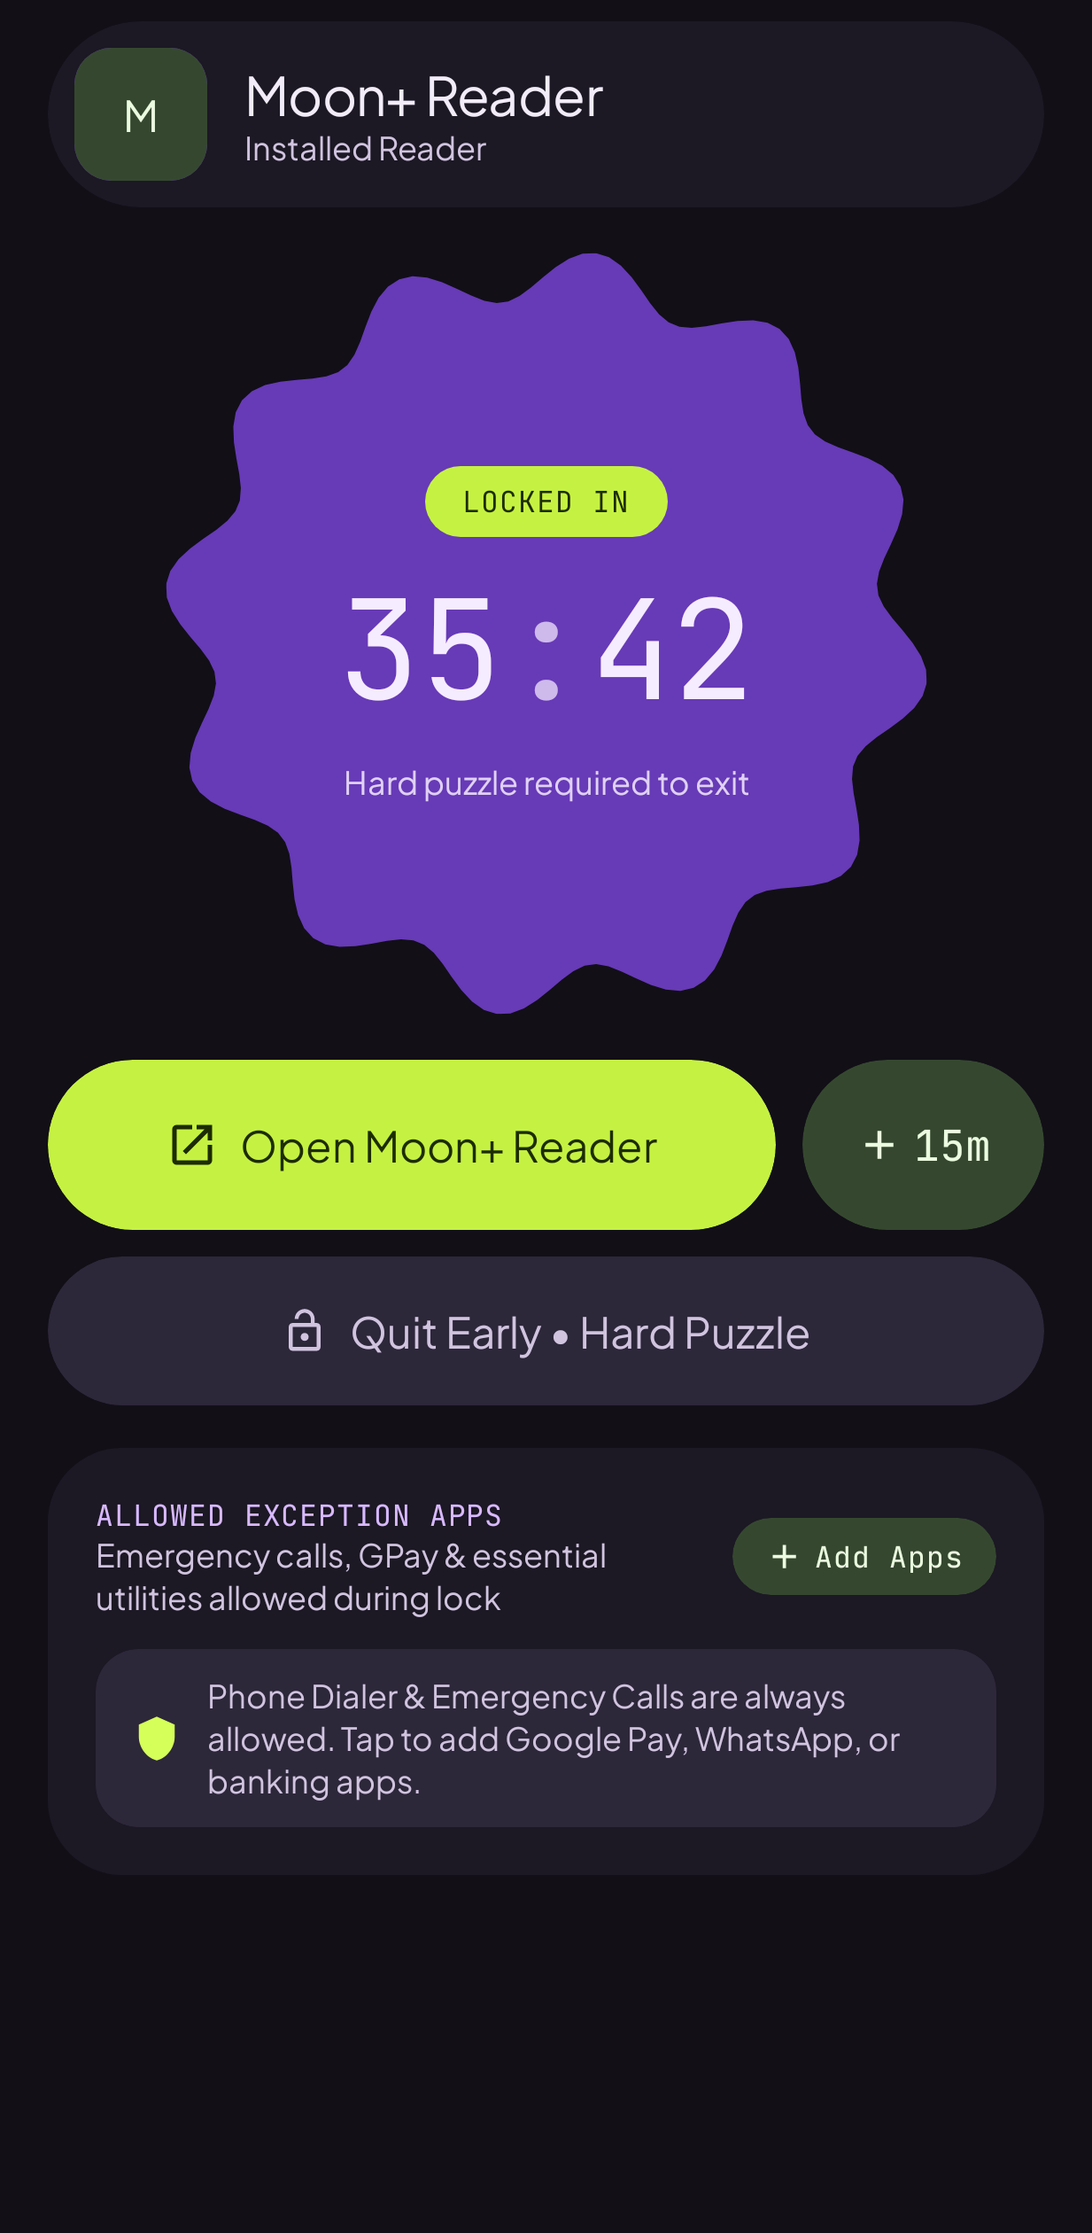
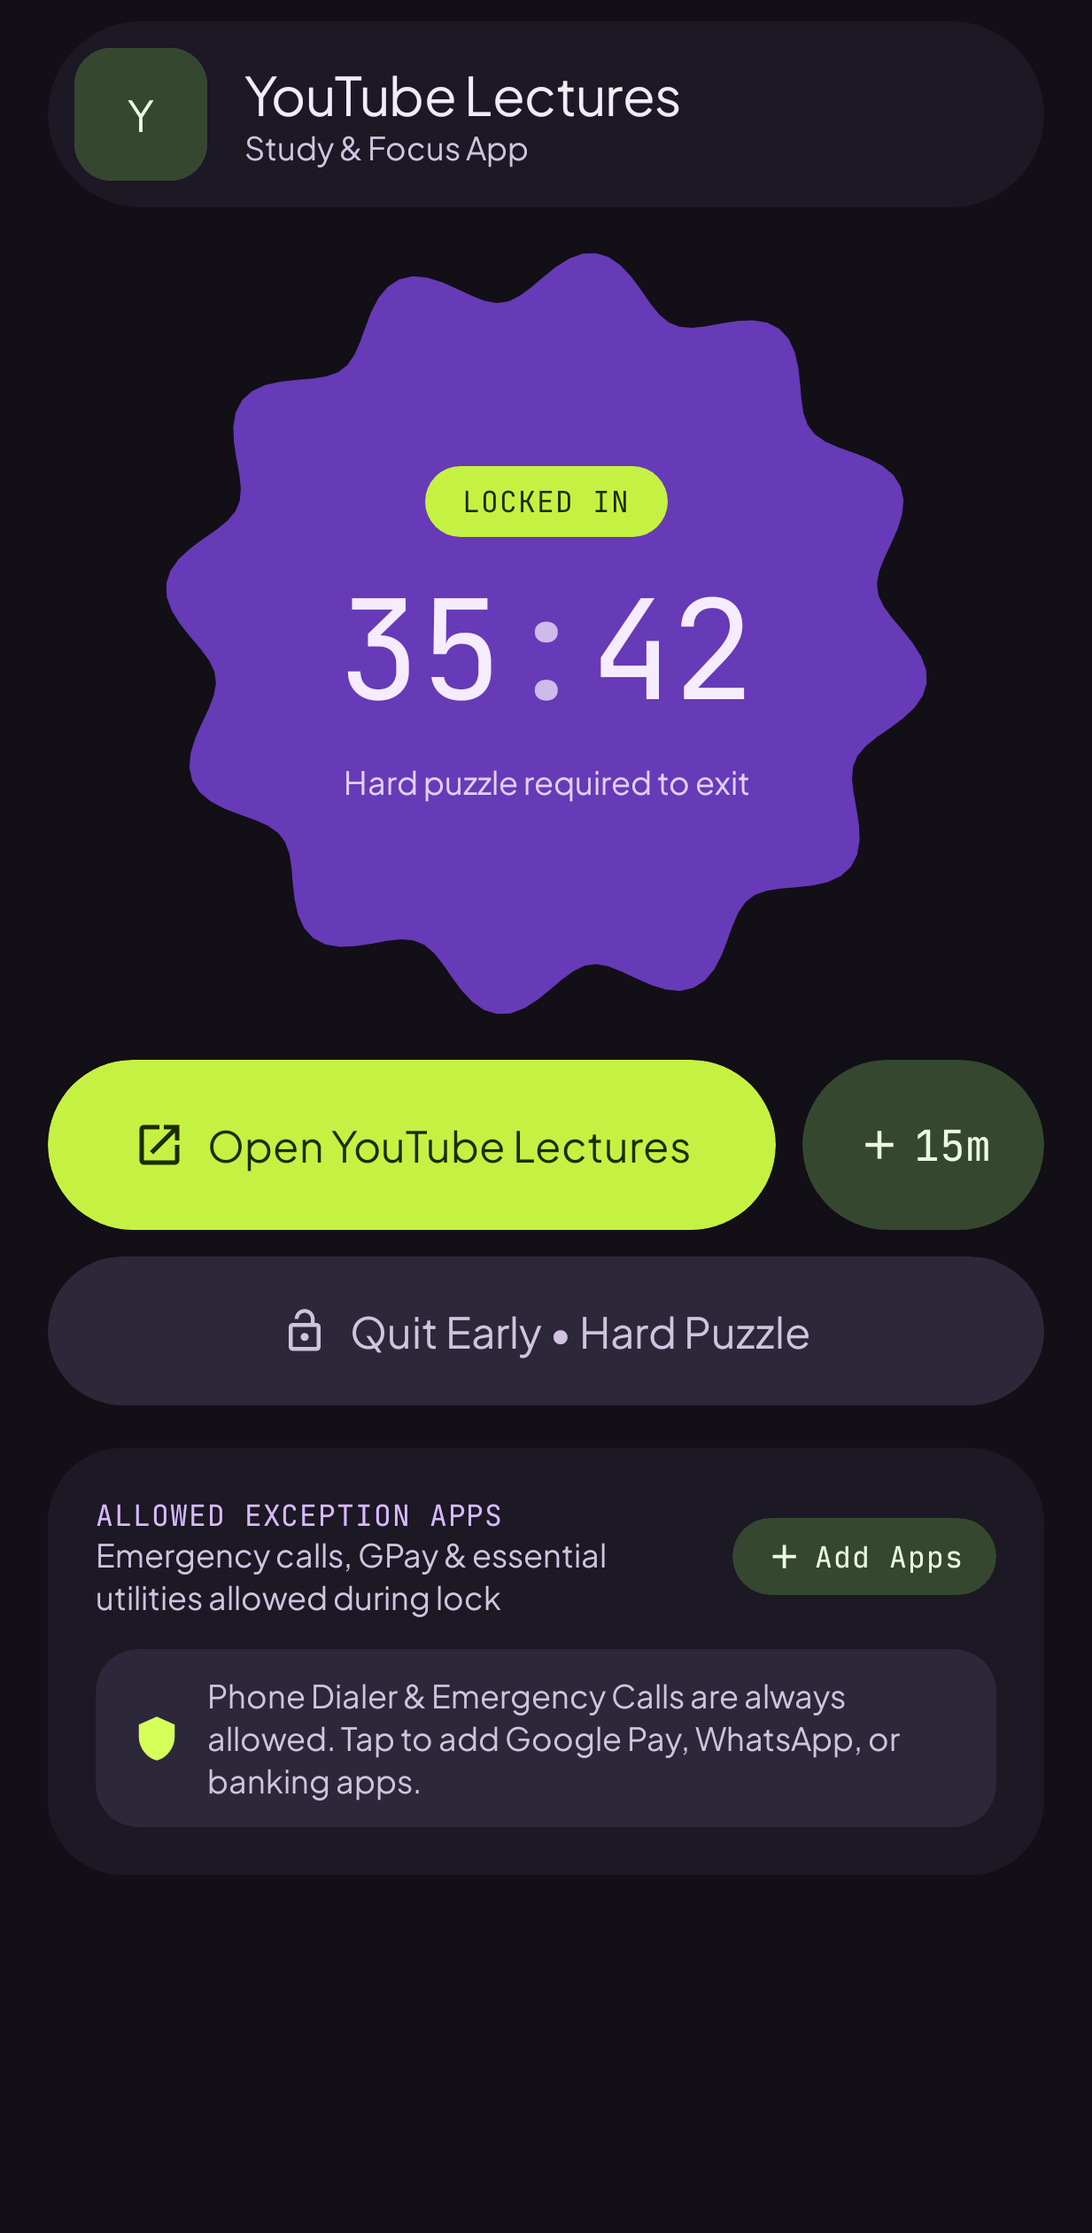
refactor: generalize focus candidate apps and resolve accessibility deprecations

Changed region(s): [[0.2157, 0.031, 0.6164, 0.0929], [0.1233, 0.4952, 0.6164, 0.5262], [0.1233, 0.031, 0.1541, 0.0619]]

diff --git a/app/src/test/java/com/example/ExampleRobolectricTest.kt b/app/src/test/java/com/example/ExampleRobolectricTest.kt
@@ -81,7 +81,7 @@ class ExampleRobolectricTest {
             category = "Social",
             dailyLimitMinutes = 60,
             usedMinutesToday = 45,
-            blockDuringReading = true
+            blockDuringFocus = true
         )
         assertFalse(ruleUnderBudget.isCurrentlyBlocked(isFocusSessionActive = false))
         assertTrue(ruleUnderBudget.isCurrentlyBlocked(isFocusSessionActive = true))
@@ -98,7 +98,7 @@ class ExampleRobolectricTest {
             category = "Video",
             dailyLimitMinutes = 30,
             usedMinutesToday = 35,
-            blockDuringReading = true
+            blockDuringFocus = true
         )
         ChapterLockEnforcer.syncRules(listOf(youtubeRule))
         ChapterLockEnforcer.updateFocusLockState(
@@ -137,22 +137,22 @@ class ExampleRobolectricTest {
     }
 
     @Test
-    fun `focus lock mode intercepts unauthorized apps while keeping reader open`() {
-        val readerPkg = "com.flyersoft.moonreader"
+    fun `focus lock mode intercepts unauthorized apps while keeping pinned focus app open`() {
+        val pinnedAppPkg = "com.google.android.youtube"
         val now = System.currentTimeMillis()
         ChapterLockEnforcer.updateFocusLockState(
             active = true,
-            pinnedPackage = readerPkg,
-            pinnedName = "Moon+ Reader",
+            pinnedPackage = pinnedAppPkg,
+            pinnedName = "YouTube Lectures",
             endTimeMs = now + 1_800_000L
         )
 
-        val readerDecision = ChapterLockEnforcer.evaluatePackage(readerPkg, "com.example")
-        assertNull("Pinned reader must be permitted during focus lock", readerDecision)
+        val pinnedDecision = ChapterLockEnforcer.evaluatePackage(pinnedAppPkg, "com.example")
+        assertNull("Pinned focus app must be permitted during focus lock", pinnedDecision)
 
-        val youtubeDecision = ChapterLockEnforcer.evaluatePackage("com.google.android.youtube", "com.example")
-        assertNotNull(youtubeDecision)
-        assertEquals(InterceptReason.FOCUS_LOCK_BREACH, youtubeDecision?.reason)
+        val unauthorizedDecision = ChapterLockEnforcer.evaluatePackage("com.instagram.android", "com.example")
+        assertNotNull(unauthorizedDecision)
+        assertEquals(InterceptReason.FOCUS_LOCK_BREACH, unauthorizedDecision?.reason)
 
         // System launcher must trigger FOCUS_LOCK_LAUNCHER_BREACH when Focus Lock is active to confine navigation
         val launcherDecision = ChapterLockEnforcer.evaluatePackage("com.miui.home", "com.example")
@@ -245,8 +245,8 @@ class ExampleRobolectricTest {
         val context = ApplicationProvider.getApplicationContext<Context>()
         ChapterLockEnforcer.updateFocusLockState(
             active = true,
-            pinnedPackage = "com.flyersoft.moonreader",
-            pinnedName = "Moon+ Reader",
+            pinnedPackage = "com.google.android.youtube",
+            pinnedName = "YouTube Lectures",
             endTimeMs = System.currentTimeMillis() + 30 * 60_000L
         )
         val focusNotif = com.example.service.LockNotificationManager.buildForegroundServiceNotification(context)
@@ -271,8 +271,8 @@ class ExampleRobolectricTest {
                 AppVaultScreen(
                     appRules = emptyList(),
                     isFocusSessionActive = true,
-                    activeFocusAppName = "Moon+ Reader",
-                    activeFocusPackageName = "com.flyersoft.moonreader",
+                    activeFocusAppName = "YouTube Lectures",
+                    activeFocusPackageName = "com.google.android.youtube",
                     activeFocusCountdown = "42:15",
                     hasUsageStatsPermission = true,
                     hasAccessibilityPermission = true,
@@ -349,18 +349,18 @@ class ExampleRobolectricTest {
     @Config(qualifiers = "w411dp-h891dp-xxhdpi")
     fun `capture real screenshot of FocusLock screen`() {
         composeTestRule.mainClock.autoAdvance = false
-        val readerApp = PinnedFocusAppEntity(
-            packageName = "com.flyersoft.moonreader",
-            appName = "Moon+ Reader",
-            subtitle = "Installed Reader",
+        val pinnedFocusApp = PinnedFocusAppEntity(
+            packageName = "com.google.android.youtube",
+            appName = "YouTube Lectures",
+            subtitle = "Study & Focus App",
             isSelected = true,
             totalFocusedMinutes = 185,
             isInstalled = true
         )
         val activeSession = ActiveFocusSessionState(
             isActive = true,
-            pinnedAppName = "Moon+ Reader",
-            pinnedPackageName = "com.flyersoft.moonreader",
+            pinnedAppName = "YouTube Lectures",
+            pinnedPackageName = "com.google.android.youtube",
             selectedDurationMinutes = 45,
             totalSeconds = 2700,
             remainingSeconds = 2142
@@ -370,7 +370,7 @@ class ExampleRobolectricTest {
             MyApplicationTheme(darkTheme = true, dynamicColor = false) {
                 Box(modifier = Modifier.size(width = 411.dp, height = 840.dp)) {
                     ReadAndLockScreen(
-                        selectedFocusApp = readerApp,
+                        selectedFocusApp = pinnedFocusApp,
                         activeSession = activeSession,
                         isTablet = false,
                         onSelectDuration = {},
@@ -392,8 +392,8 @@ class ExampleRobolectricTest {
         composeTestRule.mainClock.autoAdvance = false
         val challenge = FrictionChallengeState(
             reason = FrictionReason.QUIT_FOCUS_LOCK_EARLY,
-            targetAppName = "Moon+ Reader",
-            targetPackageName = "com.flyersoft.moonreader",
+            targetAppName = "YouTube Lectures",
+            targetPackageName = "com.google.android.youtube",
             mode = ChallengeMode.MEMORY_GRID,
             patternSequence = listOf(2, 5, 10, 13, 7),
             userClickedSequence = listOf(2, 5),
@@ -428,18 +428,18 @@ class ExampleRobolectricTest {
     @Config(qualifiers = "w960dp-h640dp-xhdpi")
     fun `capture real screenshot of Tablet 3 to 2 layout`() {
         composeTestRule.mainClock.autoAdvance = false
-        val readerApp = PinnedFocusAppEntity(
-            packageName = "com.flyersoft.moonreader",
-            appName = "Moon+ Reader",
-            subtitle = "Installed Reader",
+        val pinnedFocusApp = PinnedFocusAppEntity(
+            packageName = "com.google.android.youtube",
+            appName = "YouTube Lectures",
+            subtitle = "Study & Focus App",
             isSelected = true,
             totalFocusedMinutes = 240,
             isInstalled = true
         )
         val session = ActiveFocusSessionState(
             isActive = false,
-            pinnedAppName = "Moon+ Reader",
-            pinnedPackageName = "com.flyersoft.moonreader",
+            pinnedAppName = "YouTube Lectures",
+            pinnedPackageName = "com.google.android.youtube",
             selectedDurationMinutes = 60,
             totalSeconds = 3600,
             remainingSeconds = 3600
@@ -466,7 +466,7 @@ class ExampleRobolectricTest {
                                 onToggleWallpaperTheme = {}
                             )
                             ReadAndLockScreen(
-                                selectedFocusApp = readerApp,
+                                selectedFocusApp = pinnedFocusApp,
                                 activeSession = session,
                                 focusHistoryCount = 6,
                                 isTablet = true,
@@ -576,18 +576,18 @@ class ExampleRobolectricTest {
     @Config(qualifiers = "w768dp-h1024dp-xhdpi")
     fun `portrait tablet uses centered single-column layout and slot-machine clock displays real-time seconds`() {
         composeTestRule.mainClock.autoAdvance = false
-        val readerApp = PinnedFocusAppEntity(
-            packageName = "com.flyersoft.moonreader",
-            appName = "Moon+ Reader",
-            subtitle = "Installed Reader",
+        val pinnedFocusApp = PinnedFocusAppEntity(
+            packageName = "com.google.android.youtube",
+            appName = "YouTube Lectures",
+            subtitle = "Study & Focus App",
             isSelected = true,
             totalFocusedMinutes = 185,
             isInstalled = true
         )
         val idleSession = ActiveFocusSessionState(
             isActive = false,
-            pinnedAppName = "Moon+ Reader",
-            pinnedPackageName = "com.flyersoft.moonreader",
+            pinnedAppName = "YouTube Lectures",
+            pinnedPackageName = "com.google.android.youtube",
             selectedDurationMinutes = 90,
             totalSeconds = 5400,
             remainingSeconds = 5400
@@ -597,7 +597,7 @@ class ExampleRobolectricTest {
             MyApplicationTheme(darkTheme = true, dynamicColor = false) {
                 Box(modifier = Modifier.size(width = 768.dp, height = 1024.dp)) {
                     ReadAndLockScreen(
-                        selectedFocusApp = readerApp,
+                        selectedFocusApp = pinnedFocusApp,
                         activeSession = idleSession,
                         focusHistoryCount = 4,
                         isTablet = false,

diff --git a/app/src/main/java/com/example/data/SystemAppInspector.kt b/app/src/main/java/com/example/data/SystemAppInspector.kt
@@ -20,9 +20,12 @@ data class DiscoveredDeviceApp(
     val appName: String,
     val category: String,
     val isInstalledOnDevice: Boolean = true,
-    val isReaderApp: Boolean = false,
+    val isFocusCandidateApp: Boolean = false,
     val usedMinutesToday: Int = 0
-)
+) {
+    val isReaderApp: Boolean
+        get() = isFocusCandidateApp
+}
 
 class SystemAppInspector(val context: Context) {
 
@@ -360,7 +363,7 @@ class SystemAppInspector(val context: Context) {
                 return it
             }
 
-            // 2. Extended check over the last 2 hours (catches long YouTube / reading sessions)
+            // 2. Extended check over the last 2 hours (catches long lecture, study, or deep focus sessions)
             findLatestForegroundFromEvents(usageStatsManager, now - 7_200_000L, now)?.let {
                 return it
             }
@@ -423,7 +426,7 @@ class SystemAppInspector(val context: Context) {
                     appName = label,
                     category = categorizePackage(pkg, label),
                     isInstalledOnDevice = true,
-                    isReaderApp = isKnownReaderApp(pkg, label),
+                    isFocusCandidateApp = isKnownFocusCandidateApp(pkg, label),
                     usedMinutesToday = usageMap[pkg] ?: 0
                 )
             }
@@ -444,7 +447,7 @@ class SystemAppInspector(val context: Context) {
                         appName = label,
                         category = categorizePackage(pkg, label),
                         isInstalledOnDevice = true,
-                        isReaderApp = isKnownReaderApp(pkg, label),
+                        isFocusCandidateApp = isKnownFocusCandidateApp(pkg, label),
                         usedMinutesToday = usageMap[pkg] ?: 0
                     )
                 }
@@ -458,14 +461,18 @@ class SystemAppInspector(val context: Context) {
         )
     }
 
-    private fun isKnownReaderApp(packageName: String, label: String): Boolean {
+    private fun isKnownFocusCandidateApp(packageName: String, label: String): Boolean {
         val lower = "${packageName.lowercase()} ${label.lowercase()}"
         return "reader" in lower || "novel" in lower || "book" in lower ||
                 "kindle" in lower || "mihon" in lower || "tachiyomi" in lower ||
                 "readera" in lower || "kobo" in lower || "webnovel" in lower ||
                 "epub" in lower || "manga" in lower || "aniyomi" in lower ||
                 "kotatsu" in lower || "lnreader" in lower || "shosetsu" in lower ||
-                "librera" in lower || "fbreader" in lower || "lithium" in lower
+                "librera" in lower || "fbreader" in lower || "lithium" in lower ||
+                "youtube" in lower || "coursera" in lower || "udemy" in lower ||
+                "khan" in lower || "edx" in lower || "duolingo" in lower ||
+                "anki" in lower || "quizlet" in lower || "notion" in lower ||
+                "obsidian" in lower || "termux" in lower || "docs" in lower
     }
 
     fun isEssentialUtilityApp(packageName: String, label: String): Boolean {
@@ -484,7 +491,7 @@ class SystemAppInspector(val context: Context) {
             "dialer" in lower || "phone" in lower || "contacts" in lower || "emergency" in lower || "messages" in lower || "mms" in lower || "authenticator" in lower -> "Emergency & Calls"
             "duolingo" in lower || "anki" in lower || "khan" in lower || "coursera" in lower || "udemy" in lower || "quizlet" in lower || "edx" in lower || "brilliant" in lower || "learn" in lower || "study" in lower -> "Education & Learning"
             "notion" in lower || "obsidian" in lower || "evernote" in lower || "onenote" in lower || "docs" in lower || "sheets" in lower || "tasks" in lower || "todoist" in lower || "ticktick" in lower || "termux" in lower || "keep" in lower -> "Productivity & Tools"
-            "reader" in lower || "novel" in lower || "book" in lower || "kindle" in lower || "mihon" in lower || "tachiyomi" in lower || "readera" in lower || "kobo" in lower || "webnovel" in lower || "epub" in lower || "manga" in lower || "aniyomi" in lower || "kotatsu" in lower || "lnreader" in lower || "shosetsu" in lower || "librera" in lower || "fbreader" in lower || "lithium" in lower -> "Reading & Books"
+            "reader" in lower || "novel" in lower || "book" in lower || "kindle" in lower || "mihon" in lower || "tachiyomi" in lower || "readera" in lower || "kobo" in lower || "webnovel" in lower || "epub" in lower || "manga" in lower || "aniyomi" in lower || "kotatsu" in lower || "lnreader" in lower || "shosetsu" in lower || "librera" in lower || "fbreader" in lower || "lithium" in lower -> "Reading & Reference"
             "youtube" in lower || "netflix" in lower || "video" in lower || "twitch" in lower || "bilibili" in lower || "prime" in lower || "disney" in lower || "hotstar" in lower -> "Video & Streaming"
             "instagram" in lower || "twitter" in lower || "facebook" in lower || "threads" in lower || "discord" in lower || "whatsapp" in lower || "telegram" in lower || "snapchat" in lower -> "Social & Messaging"
             "tiktok" in lower || "musical" in lower || "reel" in lower || "shorts" in lower -> "Short Video"

diff --git a/app/src/main/java/com/example/data/Entities.kt b/app/src/main/java/com/example/data/Entities.kt
@@ -1,5 +1,6 @@
 package com.example.data
 
+import androidx.room.ColumnInfo
 import androidx.room.Entity
 import androidx.room.PrimaryKey
 
@@ -10,7 +11,8 @@ data class AppTimerRuleEntity(
     val category: String,
     val dailyLimitMinutes: Int,
     val usedMinutesToday: Int,
-    val blockDuringReading: Boolean = true,
+    @ColumnInfo(name = "block_during_reading", defaultValue = "1")
+    val blockDuringFocus: Boolean = true,
     val unlockedUntilEpochMs: Long = 0L,
     val lastUpdatedDayEpoch: Long = currentEpochDay()
 ) {
@@ -28,8 +30,8 @@ data class AppTimerRuleEntity(
             (usedMinutesToday.toFloat() / dailyLimitMinutes.toFloat()).coerceIn(0f, 1f)
         } else 0f
 
-    val blockDuringFocus: Boolean
-        get() = blockDuringReading
+    val blockDuringReading: Boolean
+        get() = blockDuringFocus
 
     fun isTemporarilyUnlocked(nowMs: Long = System.currentTimeMillis()): Boolean {
         return unlockedUntilEpochMs > nowMs
@@ -37,7 +39,7 @@ data class AppTimerRuleEntity(
 
     fun isCurrentlyBlocked(isFocusSessionActive: Boolean, nowMs: Long = System.currentTimeMillis()): Boolean {
         if (isTemporarilyUnlocked(nowMs)) return false
-        if (isFocusSessionActive && blockDuringReading) return true
+        if (isFocusSessionActive && blockDuringFocus) return true
         if (isOverDailyBudget) return true
         return false
     }

diff --git a/app/src/main/java/com/example/ui/screens/ReadAndLockScreen.kt b/app/src/main/java/com/example/ui/screens/ReadAndLockScreen.kt
@@ -623,7 +623,7 @@ fun FocusLockScreen(
                                         ExpressiveFeedbackEngine.playLockActivated(context)
                                         onStartFocusLock()
                                     }
-                                    .testTag("start_reading_lockdown_button")
+                                    .testTag("start_focus_lockdown_button")
                             ) {
                                 Row(
                                     modifier = Modifier
@@ -995,7 +995,7 @@ fun FocusLockScreen(
                                             ExpressiveFeedbackEngine.playLockActivated(context)
                                             onStartFocusLock()
                                         }
-                                        .testTag("start_reading_lockdown_button")
+                                        .testTag("start_focus_lockdown_button")
                                 ) {
                                     Row(
                                         modifier = Modifier

diff --git a/app/src/main/java/com/example/service/AppBlockerAccessibilityService.kt b/app/src/main/java/com/example/service/AppBlockerAccessibilityService.kt
@@ -278,7 +278,7 @@ class AppBlockerAccessibilityService : AccessibilityService() {
                 MediaPlaybackSuppressor.suppressPlayback(this, pkg)
 
                 // 2. Force close PiP window if running in Picture-in-Picture mode
-                if (isPip && rootNode != null) {
+                if (isPip) {
                     dismissPipWindow(rootNode)
                 }
 
@@ -316,10 +316,8 @@ class AppBlockerAccessibilityService : AccessibilityService() {
         for (i in 0 until node.childCount) {
             val child = node.getChild(i) ?: continue
             if (findAndClickDismissButton(child)) {
-                child.recycle()
                 return true
             }
-            child.recycle()
         }
         return false
     }

diff --git a/app/src/main/java/com/example/service/ChapterLockEnforcer.kt b/app/src/main/java/com/example/service/ChapterLockEnforcer.kt
@@ -306,7 +306,6 @@ object ChapterLockEnforcer {
     fun getActiveFocusAppName(): String = pinnedFocusAppName.get()
     fun getPinnedAppPackage(): String? = pinnedFocusPackage.get()
     fun getPinnedFocusPackage(): String = pinnedFocusPackage.get().orEmpty()
-    fun getWhitelistedReaderPackage(): String = getPinnedFocusPackage()
     fun getCachedRulesSnapshot(): List<AppTimerRuleEntity> = appRulesMap.values.toList()
 
     fun updateFocusSessionState(

diff --git a/app/src/main/java/com/example/data/ChapterLockRepository.kt b/app/src/main/java/com/example/data/ChapterLockRepository.kt
@@ -239,7 +239,7 @@ class ChapterLockRepository(
             category = category,
             dailyLimitMinutes = dailyLimitMinutes.coerceIn(1, 360),
             usedMinutesToday = usedToday,
-            blockDuringReading = true
+            blockDuringFocus = true
         )
         dao.upsertAppRule(rule)
         syncEnforcerState()
